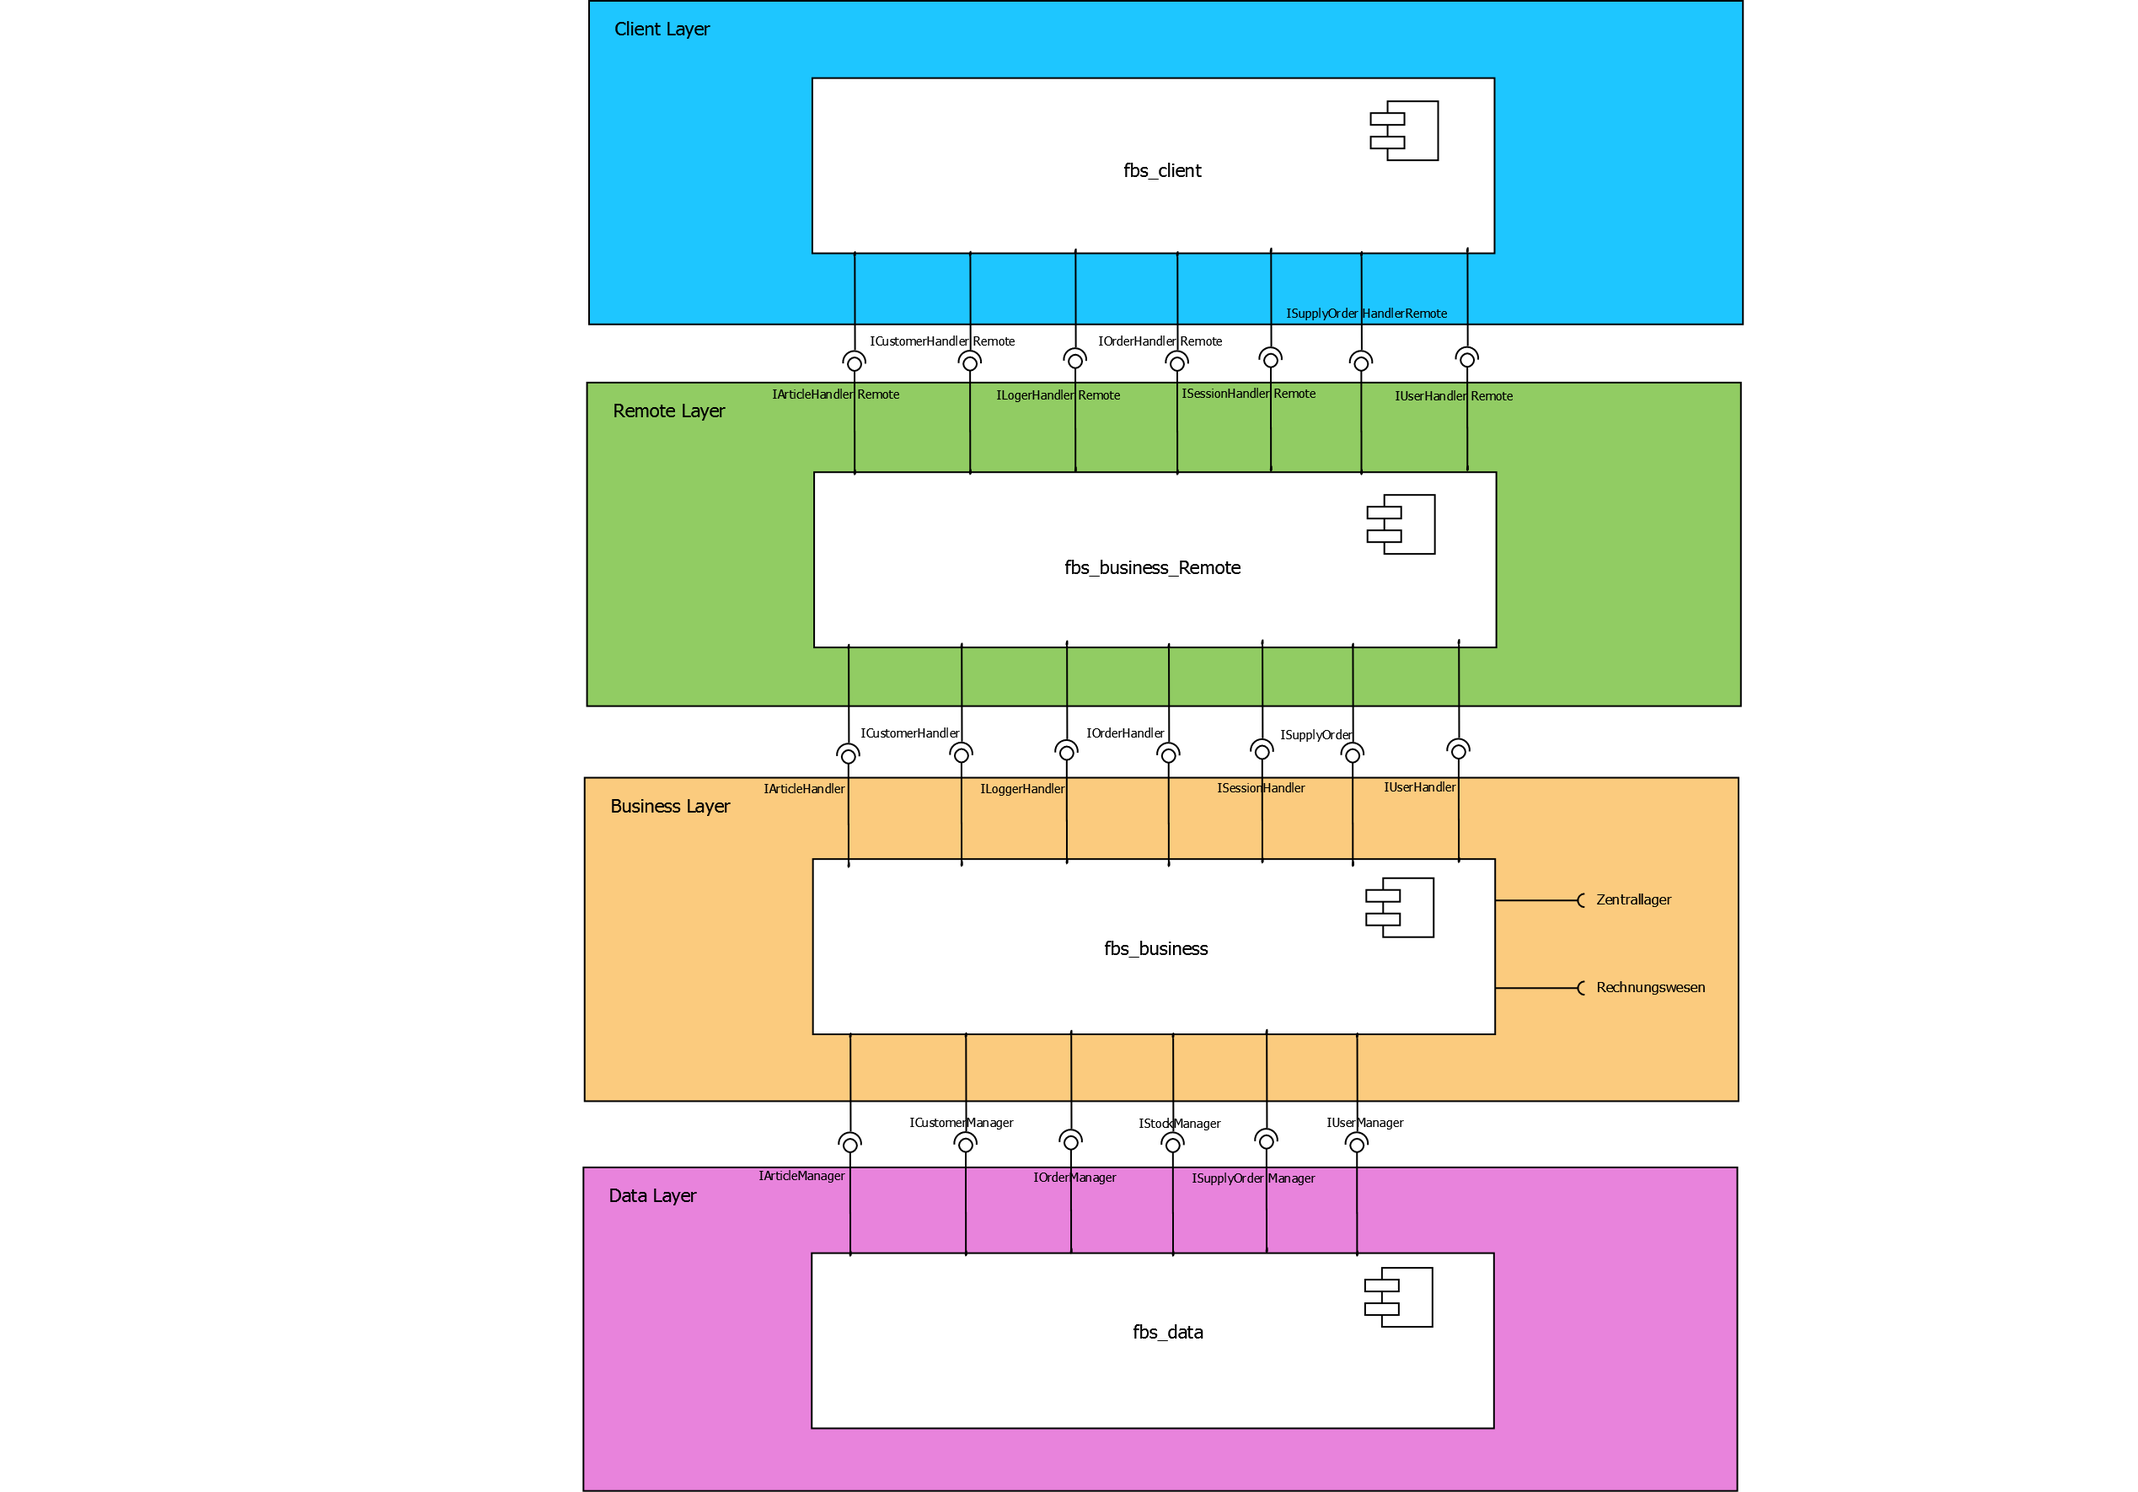
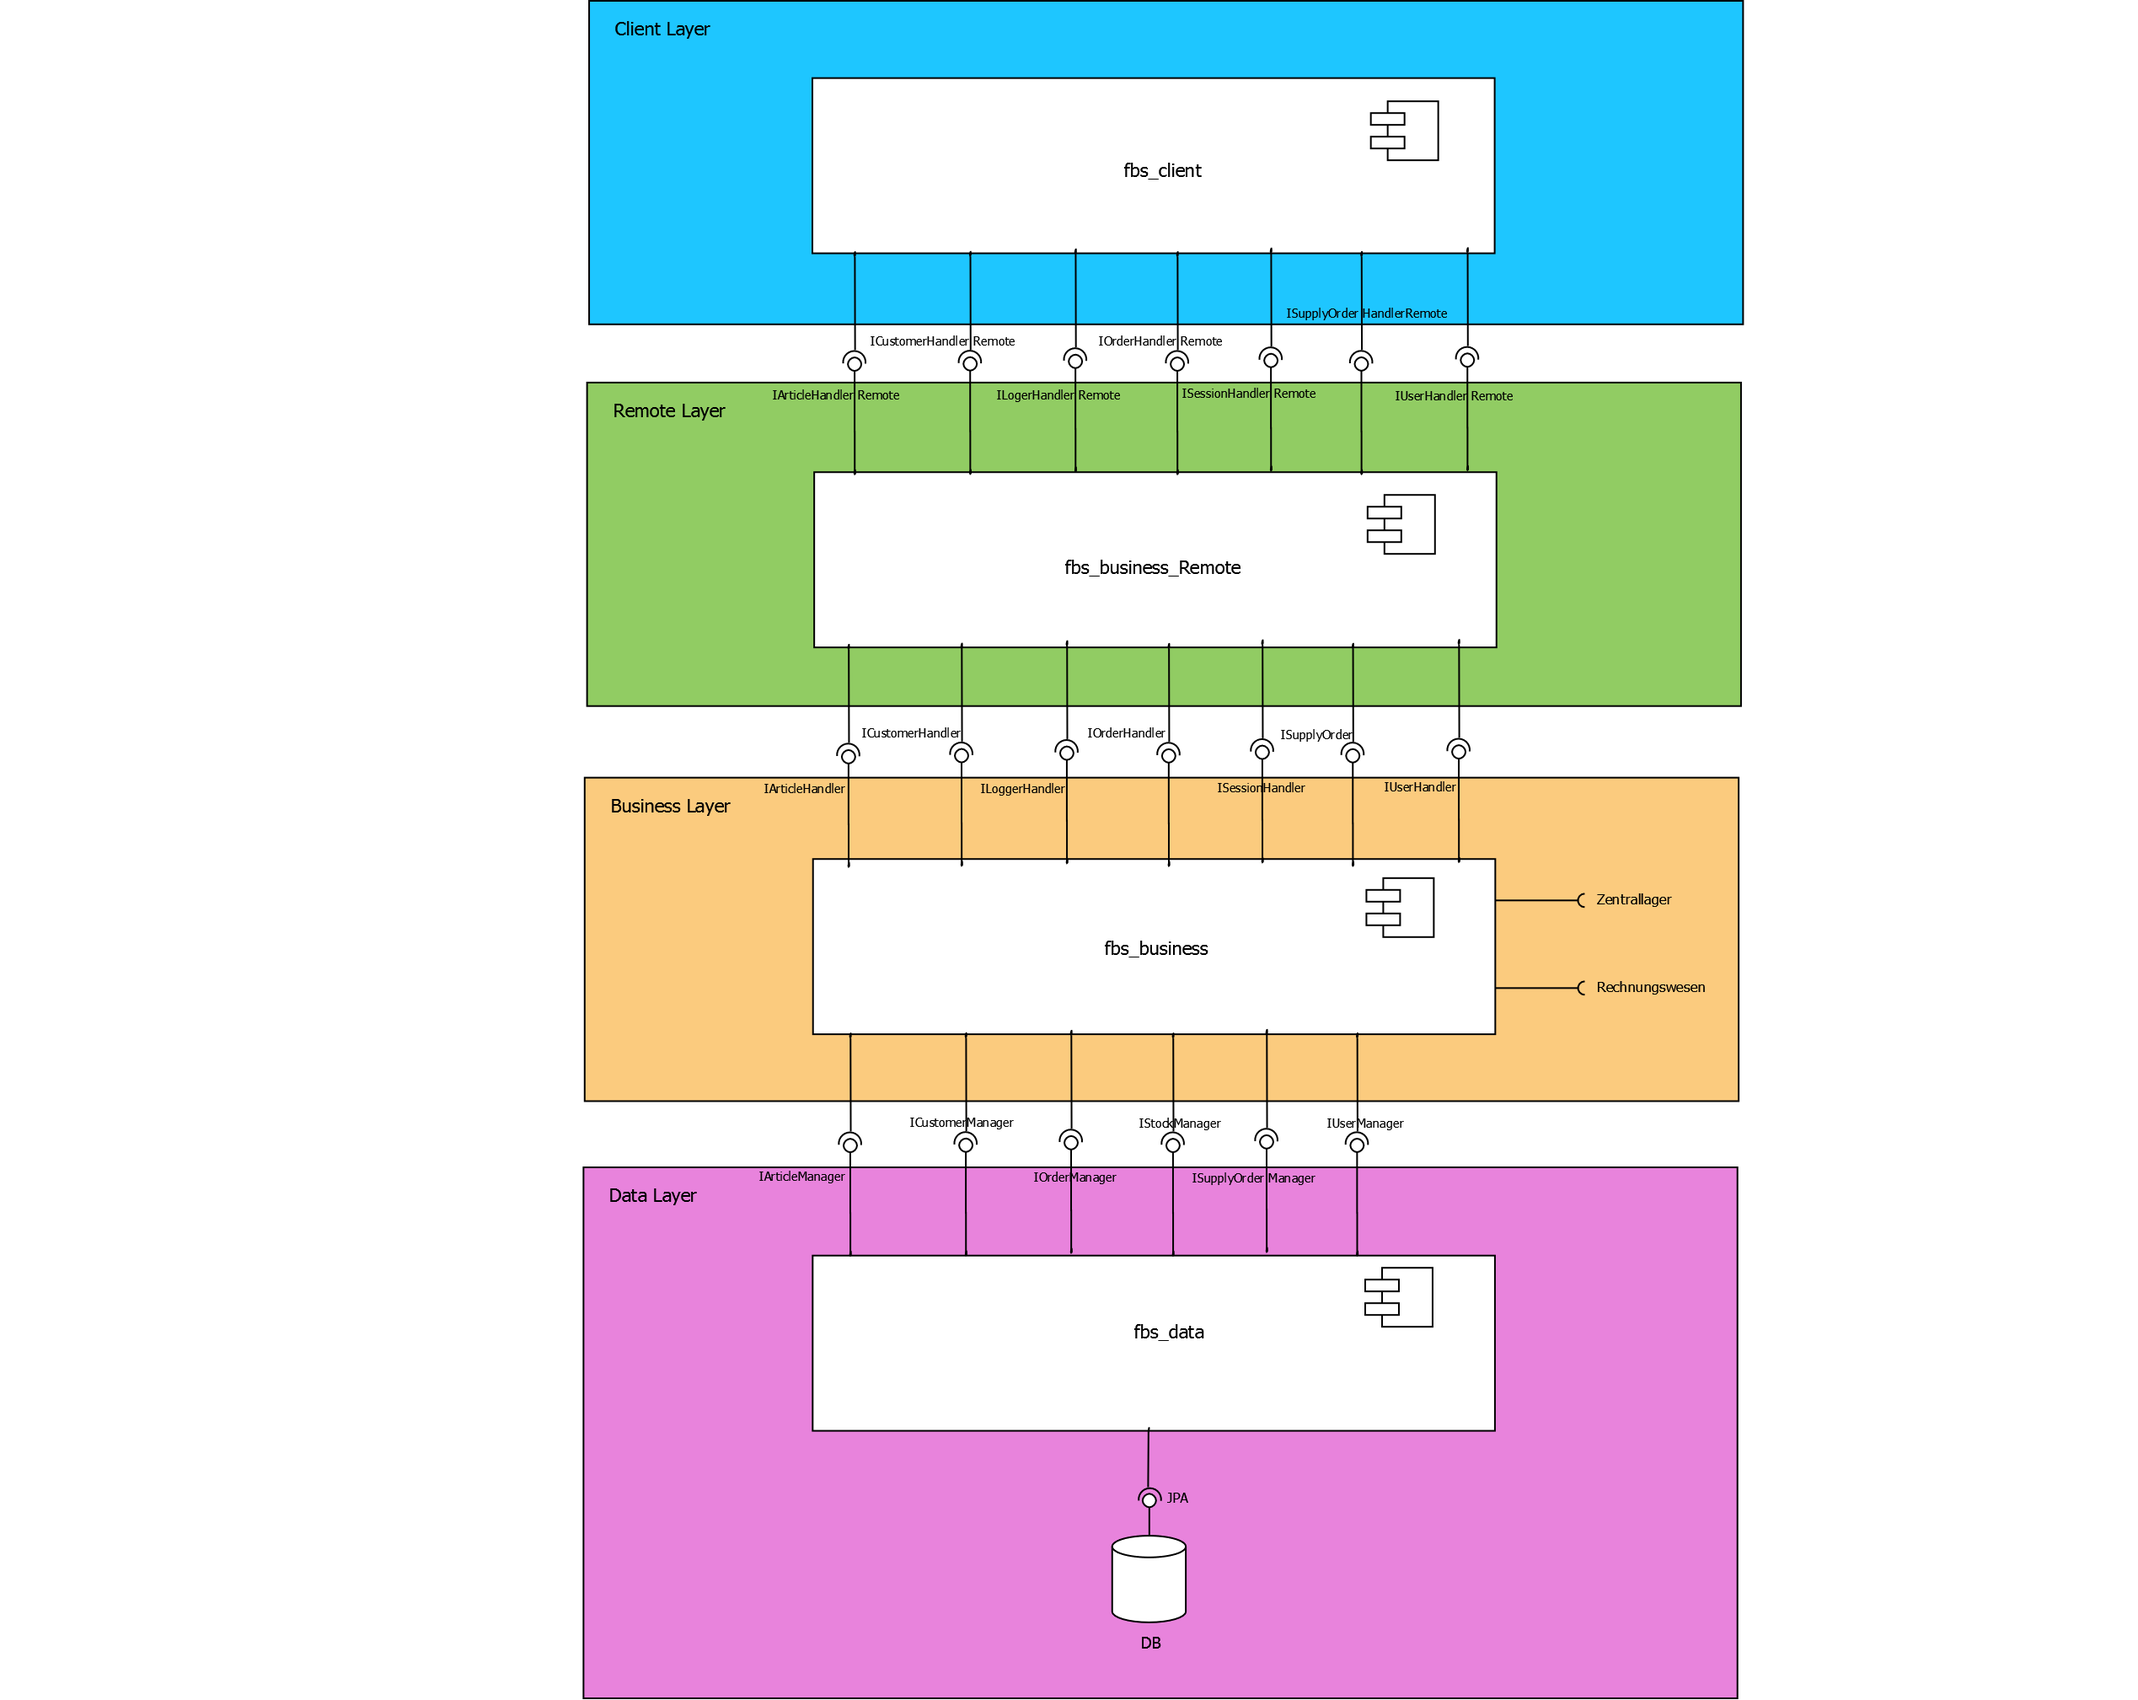
halllo ech bes

diff --git a/Dokumentation/SysSpec/Ziele/schnittstellen.tex b/Dokumentation/SysSpec/Ziele/schnittstellen.tex
@@ -31,6 +31,9 @@ TODO Severin: Klassendiagram hinzufügen
 \subsection{Interne Schnittstellen}
 In diesem Kapitel werden nur wichtige, systemrelevante Schnittstellen spezifiziert. Es werden primär die Schnittstellen zwischen den Layern 'Client', 'Business' inkl. Remote und 'Data' beschrieben.
 
+
+
+
 \subsubsection{Globale Sicht}
 In einer groben Übersicht wird die globale Sicht der Schnittstellen zwischen den Schichten / Packages aufgezeigt.:\\
 \begin{figure}[H]
@@ -39,6 +42,11 @@ In einer groben Übersicht wird die globale Sicht der Schnittstellen zwischen de
 	\caption{Schnittstellen}
 	\label{fig:schnittstellen}
 \end{figure}
+
+
+
+
+
 
 \subsubsection{Client <-> Remote}
 Der Client-Layer ist generell als MVC implementiert. Der Controller fordert bei Aktionen des Benutzers jeweils die nachgefragten Informationen über die Remote-Schicht an, und sendet neue und geänderte Bestellungen über die definierten Schnittstellen zur Remote-Schicht.
@@ -60,7 +68,11 @@ Die Implementation des Client-Layers beruht auf JavaFX, bzw. FXML. Diese Impleme
 Der Client ist stark von der Remote-Schicht der Business-Logik abhängig. Es ist nicht gedacht, dass der Client-Layer für andere Applikationen verwendet wird.
 \newline
 
-------------------------------------------------------------------
+%------------------------------------------------------------------
+
+
+
+
 \textbf{IOrderHandlerRemote}\\
 Über die Methode 'getOrder' unter Angabe der gewünschten Bestellnr (int) wird vom Business Layer die Bestellung als 'OrderDTO' bereitgestellt. Für die Auflistung aller Bestellungen wird die Methode 'getOrderList' verwendet.\\
 Unter Angabe der Bestellnummer kann eine Bestellung annulliert werden (Methode cancelOrder(int)). Für das Ändern oder Speichern einer Bestellung werden zusätzlich Informationen (z.B. Kunden, bestellte Artikel) benötigt, weshalb ein OrderDTO benötigt wird.
@@ -126,13 +138,15 @@ Das ILoggerHandlerRemote-Interface bietet die möglichkeit anhand eines LogerDTO
 
 
 
-
+%-----------------------------------------------------------------------
 
 
 
 
 \subsubsection{Remote <-> Business}
 Zwischen der Anbindung der Layer 'Remote' und 'Business' existieren ähnliche Schnittstellen wie bei 'Client <-> Remote'. Diese Schicht reicht die Client-Operationsanfragen mit notwendiger Datentransformation (DTO zu Model) an den entsprechenden Business-Handler.\\\\
+
+
 \textbf{IOrderHandler}\\
 Über die Methode 'getOrder' unter Angabe der gewünschten Bestellnr wird vom Data-Layer die Bestellung als 'OrderModel' bereitgestellt. Für die Auflistung aller Bestellungen wird die Methode 'getOrderList' verwendet.\\
 Unter Angabe der Bestellnummer kann eine Bestellung annulliert werden (Methode cancelOrder). Für das Ändern oder Speichern einer Bestellung werden zusätzlich Informationen (z.B. Kunden, bestellte Artikel) benötigt, weshalb ein OrderModel benötigt wird. 
@@ -141,6 +155,9 @@ Unter Angabe der Bestellnummer kann eine Bestellung annulliert werden (Methode c
 	\caption{Interface IOrderHandler}
 	\label{fig:if-IOrderHandler}
 \end{figure}
+
+
+
 \textbf{ISupplyOrderHandler}\\
 Für die Auflistung aller Nachbestellungen wird die Methode 'getFullOrderList' verwendet.\\
 Mittels der Methode 'changeLocalArticleStockAmount' wird überprüft, ob der Filiallagerbestand für jeden einzelnen Artikel unter den Mindestbestand fällt und löst bei Unterschreitung eine Bestellung beim Zentrallager aus. Die Methode 'setCurrentSupplyOrder' ermöglicht anhand der auslösenden Bestellung eine provisorische Nachbestellung zu erstellen. Alle nachzubestellende Artikel werden dieser Nachbestellung beigefügt. Nachdem alle Nachbestellartikel erfasst sind, muss diese über 'saveSupply' an den Data-Layer für die Persistierung gesendet werden. Die Methode 'updateSupplyFromArrival' wird beim Wareneingang verwendet, um angelieferte Artikel zu verbuchen. 
@@ -149,7 +166,9 @@ Mittels der Methode 'changeLocalArticleStockAmount' wird überprüft, ob der Fil
 	\caption{Interface ISupplyOrderHandler}
 	\label{fig:if-ISupplyOrderHandler}
 \end{figure}
-\clearpage
+
+
+
 \textbf{IArticleHandler}\\
 Für die Auflistung aller möglicher Artikel (z.B. im NewOrder-Form) wird die Methode 'getFullArticleList' verwendet. Ein einzelner Artikel kann über 'getArticle' unter Artikelnummer von der Datenbank angefordert werden. Über 'getArticleAmountFromStock' kann pro Artikel der aktuelle Filiallagerbestand abgefragt werden. Die genannte Anzahl ist nicht garantiert, sondern zeigt lediglich einen Momentanbestand. Neben dem Auslesen der Artikelmenge wird über die Methode 'updateArticleAmount' die Möglichkeit zur Aktualisierung der Artikelmenge angeboten. Das Transaktionsmanagement unterliegt ausschliesslich dem Data-Layer, da über die Methode nur die gewünschte Mengendifferenz übertragen wird.
 \begin{figure}[H]
@@ -189,7 +208,68 @@ Das ILoggerHandler-Interface bietet anhand eines LoggerModels, welches bereits d
 	\label{fig:if-ILoggerHandler}
 \end{figure}
 
-
+%-----------------------------------------------------------------
 
 \subsubsection{Business <-> Data}
-TODO Marco \&Tobias
+
+Zwischen der Anbindung der Layer 'Business' und 'Data' existieren Schnittstellen, um die gewünschten Daten dem Business Layer zur Verfügung zu stellen. Hier ist auch die Anbindung an die Datenbank angeordnet\\\\
+
+\textbf{IOrderManager}\\
+Über die Methode 'getOrder' unter Angabe der gewünschten OrderNr wird von der Datenenbank die Bestellung als 'OrderModel' bereitgestellt. Für die Auflistung aller Bestellungen wird die Methode 'getOrderList' verwendet.\\
+Mit der Methode 'saveOrder' können neuen Order gespeichert gelöst oder aktualisiert werden. Es wird ein 'OrderModel' übergeben um die einzelnen Aktionen auszuführen. 
+\begin{figure}[H]
+	\includegraphics[width=0.3\linewidth]{Images/IOrderManager}
+	\caption{Interface IOrderManager}
+	\label{fig:if-IOrderManager}
+\end{figure}
+
+
+\textbf{ISupplyOrderManager}\\
+Für eine Liste aller Nachbestellungen wird die Methode 'getFullOrderList' verwendet.\\
+Mittels der Methode 'makeOrderEntry' wird eine Nachbestellung abgeschickt für die Tabelle supply. Es muss ein Artikelnummer und die Menge mitgegeben werden. Wenn einen neuen Nachbestellung gemacht werden möchte, benutzt die Methode 'saveSupplyOrder', diese verlangt ein SupplyOrderModel.
+\begin{figure}[H]
+	\includegraphics[width=0.6\linewidth]{Images/ISupplyOrderManager}
+	\caption{Interface ISupplyOrderManager}
+	\label{fig:if-ISupplyOrderManager}
+\end{figure}
+
+
+
+\textbf{ICustomerManager}\\
+Beim ICustomerHandler wird bis Release 1.0 keine erstellende oder mutierende Operationen angeboten. Konkret heisst dies, dass über 'getCustomerList' alle möglichen Kunden ausgewiesen werden. Es besteht mittels Kundennummer auch die Möglichkeit einen selektiven Kunden zu erhalten (Methode 'getCustomer).\\
+Die Methode 'getCustomerStateOK' überprüft beim FinanceStub, ob der Kunden ausstehende Mahnungen hat und so nicht legitimiert ist Bestellungen zu tätigen.
+\begin{figure}[H]
+	\includegraphics[width=0.4\linewidth]{Images/ICustomerManager}
+	\caption{Interface ICustomerManager}
+	\label{fig:if-ICustomerManager}
+\end{figure}
+
+
+
+\textbf{IUserManager}\\
+Über das IUserManager-Interface kann ein UserModel von der Datenbank geholt werden. Ein UserModel beinhaltet Name, Passwort und seine Rolle. Wenn der User nicht in der DB vorhanden ist wird eine Exception UserNotFoundInDatabaseExeption geworfen.
+\begin{figure}[H]
+	\includegraphics[width=0.4\linewidth]{Images/IUserManager}
+	\caption{Interface IUserManager}
+	\label{fig:if-IUserManager}
+\end{figure}
+
+
+
+
+\textbf{IArticleManager}\\
+Das IArticleManager-Interface managt die Artikel im Data Layer und der DB. Mit der Methode 'getArticleList()' werden alle vorhandenen Artikel ('ArticleModel') zurückgegeben. Wenn auf ein spezifische Artikel benötigt wird, kann dieser mit der articleNr und der Methode 'getArticle' abgefragt werden. Mit der Methode 'getArticleAmount wird der aktuellen Lagerbestand eines Artikels zurückgegeben. Wenn neue Artikel ins lokale Lager gekommen sind, können sie mit 'updateArticleAmountInLocalStock' angepasst werden. 
+\begin{figure}[H]
+	\includegraphics[width=0.6\linewidth]{Images/IArticleManager}
+	\caption{Interface IArticlerManager}
+	\label{fig:if-IArticleManager}
+\end{figure}
+
+
+\textbf{IStockManager}\\
+Das Interface IStockManager besitzt die eine Methode 'getArticleAmountFromStock' und mit einer articleNr wird der Lagerbestand dieses Artikels zurückgegeben.
+\begin{figure}[H]
+	\includegraphics[width=0.5\linewidth]{Images/IStockManager}
+	\caption{Interface IStockManager}
+	\label{fig:if-IStockManager}
+\end{figure}
